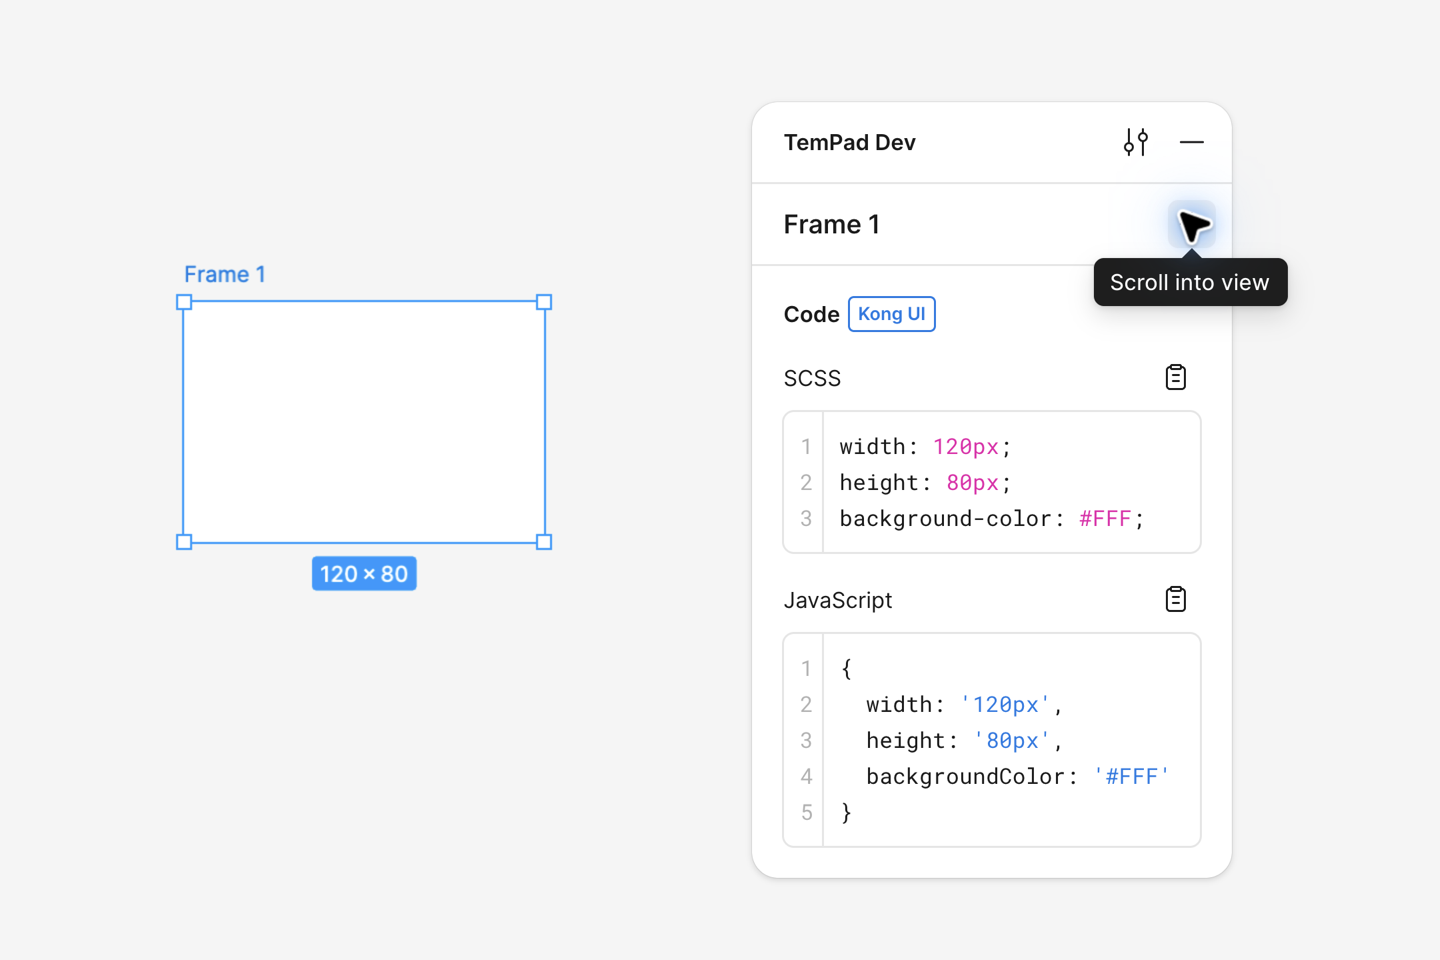
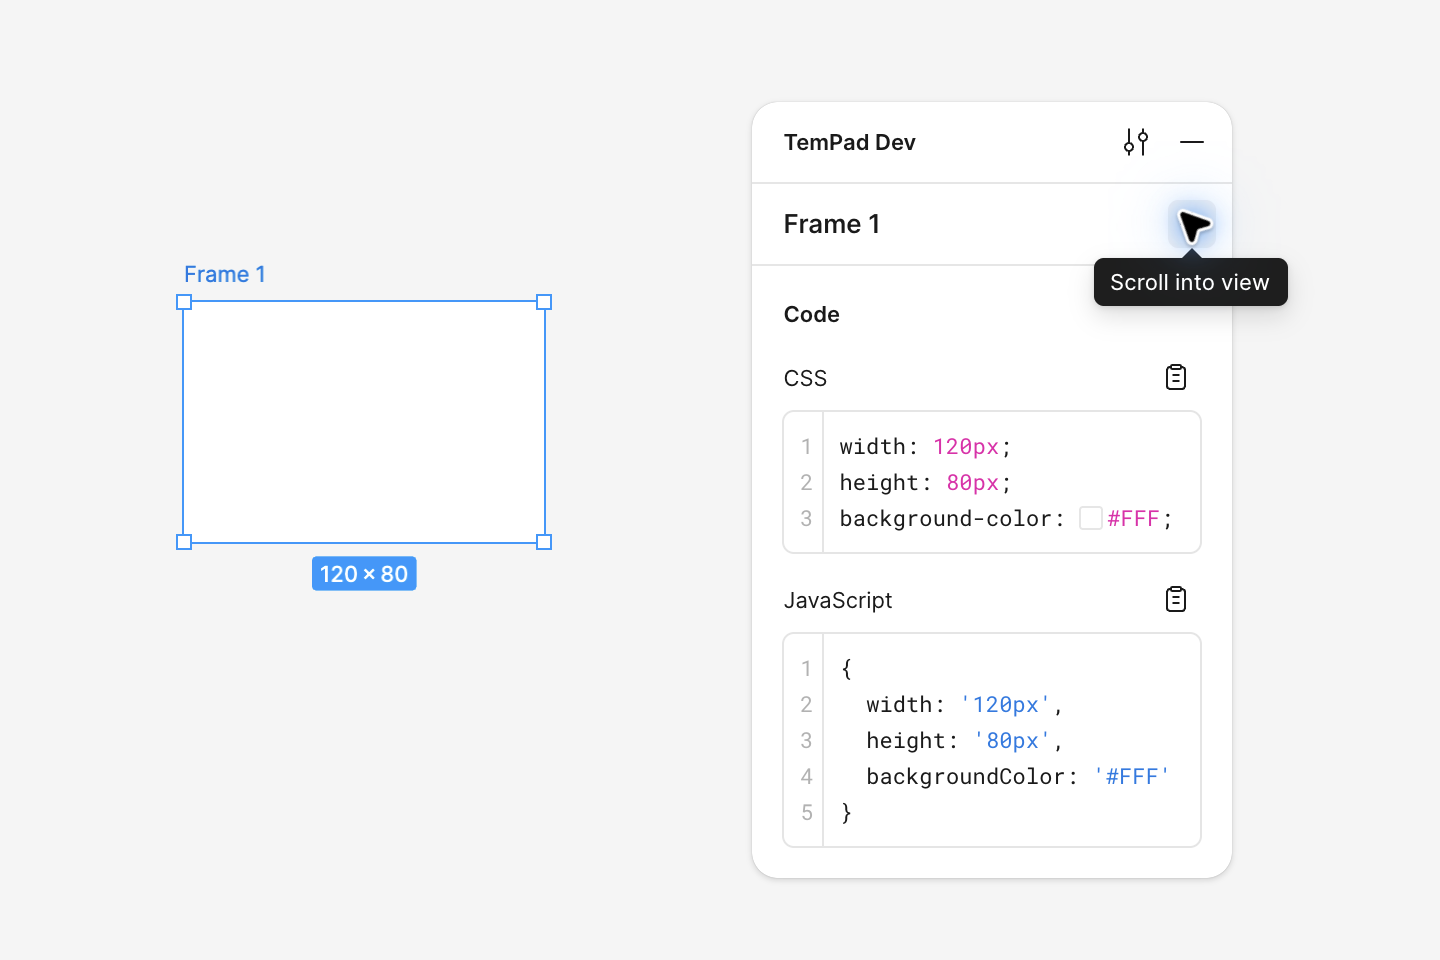
fix: isolate plugin screenshot state

diff --git a/packages/extension/scripts/capture-screenshots.ts b/packages/extension/scripts/capture-screenshots.ts
@@ -497,6 +497,11 @@ async function assertScenario(
           fail(`${scenario.id}: tooltip ${assertion.text} is not visible.`)
         }
         break
+      case 'panel-text-absent':
+        if (assertion.text && panelText.includes(assertion.text)) {
+          fail(`${scenario.id}: panel unexpectedly contains ${assertion.text}.`)
+        }
+        break
       default:
         if (assertion.text && !panelText.includes(assertion.text)) {
           fail(`${scenario.id}: panel does not contain ${assertion.text}.`)
@@ -526,7 +531,6 @@ async function captureScenario(
     fail(`${scenario.id}: leave TemPad Dev preferences open before capturing this MCP state.`)
   }
 
-  await setFigmaTheme(page, theme)
   const stage = isStateGated ? null : await stageCanvas(page, manifest, scenario, theme)
   if (isStateGated) {
     await page.evaluate((value) => {
@@ -585,6 +589,9 @@ async function main(): Promise<void> {
       .filter(Boolean) as Theme[]
   )
   const scenarios = manifest.scenarios.filter((scenario) => selectedIds.has(scenario.id))
+  const orderedScenarios = [...scenarios].sort(
+    (a, b) => Number(a.id === 'plugins') - Number(b.id === 'plugins')
+  )
   const unknown = [...selectedIds].filter(
     (id) => !manifest.scenarios.some((scenario) => scenario.id === id)
   )
@@ -647,9 +654,10 @@ async function main(): Promise<void> {
   }
 
   try {
-    for (const scenario of scenarios) {
-      for (const theme of manifest.capture.themes) {
-        if (selectedThemes.has(theme)) {
+    for (const theme of manifest.capture.themes) {
+      if (selectedThemes.has(theme)) {
+        await setFigmaTheme(page, theme)
+        for (const scenario of orderedScenarios) {
           await captureScenario(page, manifest, scenario, theme, outputDir)
         }
       }

diff --git a/packages/extension/scripts/verify-screenshots.ts b/packages/extension/scripts/verify-screenshots.ts
@@ -20,6 +20,9 @@ type Scenario = {
   }
   id: string
   intent: string
+  panel?: {
+    plugins?: string[]
+  }
   pointer: {
     shape: string
     target: {
@@ -148,6 +151,15 @@ for (const scenario of manifest.scenarios) {
   }
   if (!scenario.assertions.length) {
     errors.push(`scenarios.json: ${scenario.id} must declare pre-capture assertions`)
+  }
+
+  const plugins = scenario.panel?.plugins ?? []
+  if (scenario.id === 'plugins') {
+    if (plugins.length !== 1 || plugins[0] !== 'Kong UI') {
+      errors.push('scenarios.json: plugins must be the only scenario that enables Kong UI')
+    }
+  } else if (plugins.length) {
+    errors.push(`scenarios.json: ${scenario.id} must use the native plugin-free state`)
   }
 
   const clip = { ...manifest.capture.clip, ...scenario.clip }

diff --git a/packages/extension/screenshots/fixture-runtime.js b/packages/extension/screenshots/fixture-runtime.js
@@ -201,6 +201,7 @@
 
     figma.currentPage = page
     if (theme) setCanvasTheme(theme)
+    figma.currentPage.selection = []
     figma.currentPage.selection = selectionNodes
     figma.viewport.zoom = zoom
     figma.viewport.center = {

diff --git a/docs/marketing-screenshots.md b/docs/marketing-screenshots.md
@@ -39,7 +39,7 @@ crop becomes `720 × 320`.
 | `unit`            | Same selected frame, preferences open, `rem` active, root size `16` focused with its text selected, arrow pointer over the field. |
 | `deep`            | No Figma selection, Deep Select active, arrow pointer over the nested frame, hover-only blue outline without handles.             |
 | `measure`         | Inner frame selected, Measure active, outer frame under the pointer, orange target outline and four `20` distance labels.         |
-| `scroll`          | Frame selected, Kong UI output visible, arrow pointer hovering Scroll Into View with its tooltip visible.                         |
+| `scroll`          | Frame selected in the native code view, arrow pointer hovering Scroll Into View with its tooltip visible.                         |
 | `plugins`         | Real Kong Button instance selected with Figma's purple instance highlight and Kong UI-specific output; pointer hidden.            |
 | `mcp-config`      | Complete Agent integration section with MCP enabled, expanded install instructions, client icons, and setup guide.                |
 | `mcp-unavailable` | Preferences visible with the gray-dot, dashed MCP badge.                                                                          |
@@ -130,7 +130,8 @@ The runner performs these steps:
    the page's main JavaScript world through CDP. Verify that the returned page is `README Fixtures`
    and that every marker from the scenario manifest exists.
 3. Reset TemPad Dev to the manifest baseline, then configure the scenario through its visible
-   controls. Do not read or write browser local storage.
+   controls. The baseline has no codegen plugins enabled; only `plugins` may enable Kong UI, and it
+   is captured last within each theme. Do not read or write browser local storage.
 4. Stage the Figma canvas through the helper installed by the fixture runtime. This separates the
    node used to frame the canvas from the actual selection, which is required for hover-only and
    measurement scenes:
@@ -146,7 +147,8 @@ The runner performs these steps:
    })
    ```
 
-5. Drag the TemPad Dev panel to the manifest coordinates. Use Figma's real theme menu for the
+5. Drag the TemPad Dev panel to the manifest coordinates. Capture every selected native scenario
+   for one theme before switching themes, with `plugins` last. Use Figma's real theme menu for the
    requested variant; do not modify `data-preferred-theme` directly.
 6. Resolve the scenario pointer target after layout settles. Canvas targets use
    `__TEMPAD_README_SCREENSHOTS__.bounds(marker)`; panel targets use their declared accessible role